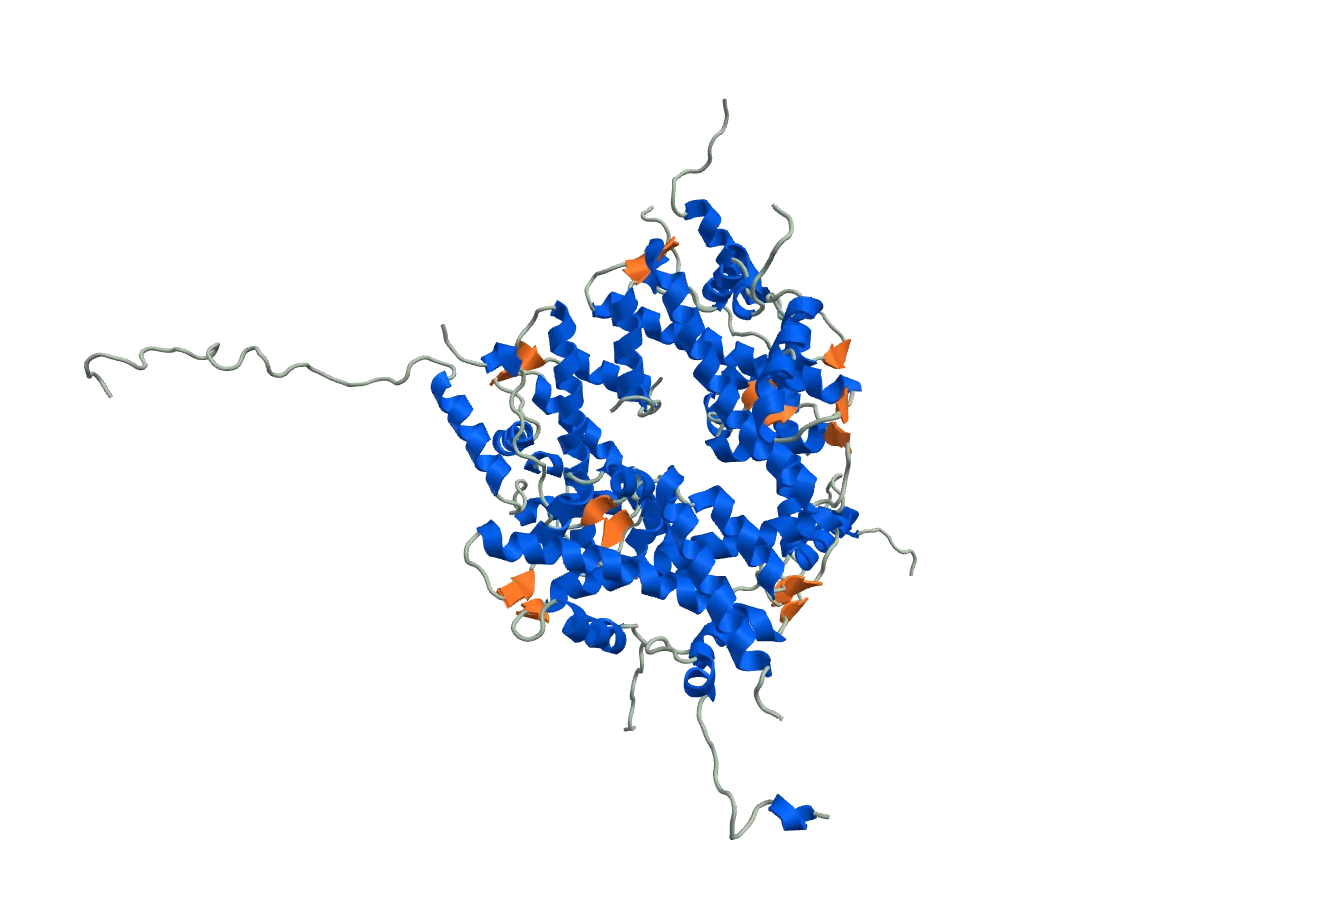
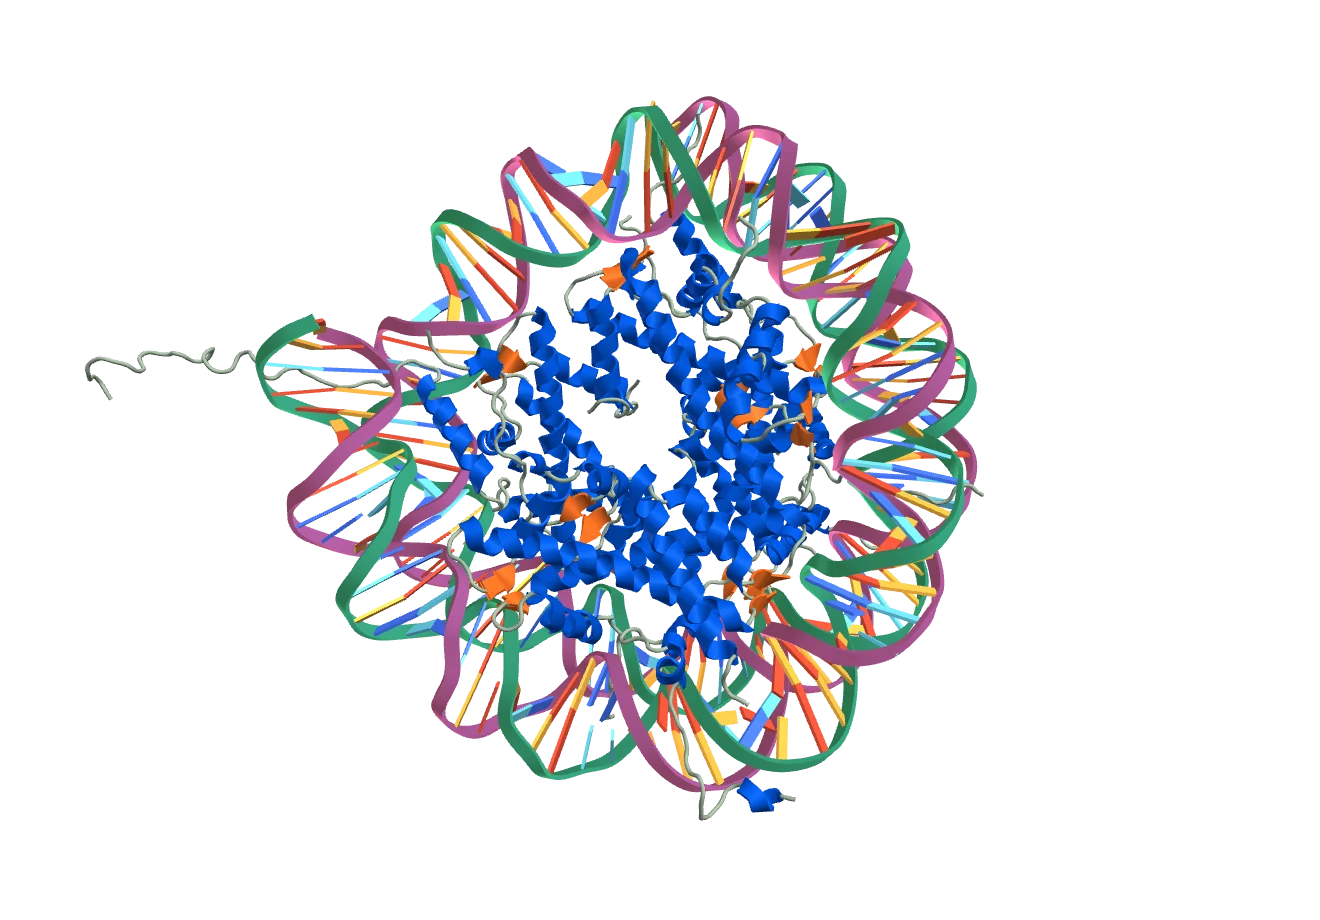
use thumbnails for protein and dna cards on homepage

Changed region(s): [[0.0621, 0.0913, 0.7455, 0.913]]

diff --git a/contribute.html b/contribute.html
@@ -263,7 +263,7 @@
 <section class="shelf">
   <div class="wrap galhead">
     <h2>Our <em>component</em> library</h2>
-    <p><span id="ncomp"></span> exist already, each one a line of code to use. The next one is <a href="https://github.com/rhymeandreason/ScienceSandbox/blob/main/demos/docs/AddingAComponent.md" target="_blank" rel="noopener">AddingAComponent.md</a>.</p>
+    <p><span id="ncomp"></span> exist already, spanning molecules to cells to graphs.</p>
   </div>
   <!-- One row, scrolled sideways: eleven live scenes down a page is a wall,
        and across one they read as a shelf you flick through. -->
@@ -272,7 +272,7 @@
   <div class="gallery" id="gallery">
     <article><div class="stage" style="--stage-bg:#EAF3FF"><img src="demos/media/components/watersim.webp" alt="WaterSim, drawn by the component itself" loading="lazy" width="536" height="358"></div><div class="text"><h4>WaterSim</h4><p>Liquid water, and what follows from hydrogen bonds.</p><ul class="feats"><li>temperature</li><li>phase change</li><li>ice floating</li><li>salt dissolving</li></ul><div class="rung">molecules · bulk</div></div></article>
     <article><div class="stage" style="--stage-bg:#FFF7E3"><img src="demos/media/components/membrane.webp" alt="Membrane, drawn by the component itself" loading="lazy" width="536" height="358"></div><div class="text"><h4>Membrane</h4><p>A bilayer, its proteins, and what crosses.</p><ul class="feats"><li>diffusion</li><li>osmosis</li><li>selectivity</li><li>pumps and ATP</li><li>resting potential</li><li>chemiosmosis</li></ul><div class="rung">membrane · bulk</div></div></article>
-    <article><div class="stage" style="--stage-bg:#FFF0EC"><img src="demos/media/components/proteinbox.webp" alt="Proteinbox, drawn by the component itself" loading="lazy" width="536" height="358"></div><div class="text"><h4>Proteinbox</h4><p>Any protein in the library, in its own ångströms.</p><ul class="feats"><li>primary to quaternary</li><li>ribbon · surface · fold</li><li>two side by side</li></ul><div class="rung">macromolecule · single</div></div></article>
+    <article><div class="stage" style="--stage-bg:#FFF0EC"><img src="demos/media/components/proteinbox.webp" alt="Proteinbox, drawn by the component itself" loading="lazy" width="536" height="358"></div><div class="text"><h4>Proteinbox</h4><p>A protein in the library converted from PDB. Renders ribbon and surfaces.</p><ul class="feats"><li>primary to quaternary</li><li>ribbon · surface · fold</li><li>two side by side</li></ul><div class="rung">macromolecule · single</div></div></article>
     <article><div class="stage" style="--stage-bg:#F5EEFF"><img src="demos/media/components/hbcrowd.webp" alt="HbCrowd, drawn by the component itself" loading="lazy" width="536" height="358"></div><div class="text"><h4>HbCrowd</h4><p>A crowd of haemoglobins, and the moment HbS starts a fibre.</p><ul class="feats"><li>HbA against HbS</li><li>a fibre starting</li></ul><div class="rung">macromolecule · bulk</div></div></article>
     <article><div class="stage" style="--stage-bg:#FFEFEF"><img src="demos/media/components/bloodcell.webp" alt="BloodCell, drawn by the component itself" loading="lazy" width="536" height="358"></div><div class="text"><h4>BloodCell</h4><p>One red blood cell, cut open.</p><ul class="feats"><li>tonicity</li><li>lysis and crenation</li><li>sickling</li><li>cut open</li></ul><div class="rung">cell · single</div></div></article>
     <article><div class="stage" style="--stage-bg:#EEF2FA"><img src="demos/media/components/animalcell.webp" alt="AnimalCell, drawn by the component itself" loading="lazy" width="536" height="358"></div><div class="text"><h4>AnimalCell</h4><p>An animal cell cut open, with its organelles.</p><ul class="feats"><li>naming the parts</li><li>animal against plant</li><li>vesicle traffic</li></ul><div class="rung">cell · single</div></div></article>

diff --git a/index.html b/index.html
@@ -129,7 +129,7 @@
   }
   .field.set .card a:hover { transform: translateY(-4px); box-shadow: 0 2px 4px rgba(20,33,61,.06), 0 24px 50px -14px rgba(20,33,61,.35); }
   .card .stage { position: relative; aspect-ratio: 3 / 2; background: var(--stage-bg, #fff); }
-  .card .stage > canvas, .card .stage > iframe { display: block; width: 100%; height: 100%; border: 0; }
+  .card .stage > canvas, .card .stage > iframe, .card .stage > img { display: block; width: 100%; height: 100%; object-fit: contain; border: 0; }
   .card .stage .num {
     position: absolute; left: 14px; top: 12px; font: 600 11px/1 var(--sans); letter-spacing: .2em;
     color: var(--ink); background: rgba(255,255,255,.7); padding: 6px 8px; border-radius: 999px;
@@ -284,7 +284,7 @@
       </li>
       <li class="card" style="--sx:13vw; --sy:-2vh; --rot:-4deg; --sc:1.02; --dd:10s; --ds:-5s; --dot:var(--coral); --in:.24s">
         <div class="drift"><a href="/protein">
-          <div class="stage" data-mount="protein" style="--stage-bg:#FFF0EC"><span class="num"><i></i>03</span></div>
+          <div class="stage" style="--stage-bg:#FFF0EC"><img src="demos/proteins/stills/hemoglobin.webp" alt="haemoglobin, four folded chains" loading="lazy"><span class="num"><i></i>03</span></div>
           <div class="text"><h3>Levels of Protein Structure</h3><p>Haemoglobin, from a chain of amino acids to four folded chains.</p></div>
         </a></div>
       </li>
@@ -302,7 +302,7 @@
       </li>
       <li class="card" style="--sx:15vw; --sy:8vh; --rot:7deg; --sc:.96; --dd:8.5s; --ds:-4s; --dot:var(--blue); --in:.06s">
         <div class="drift"><a href="/dna">
-          <div class="stage" data-mount="dna" style="--stage-bg:#EEF2FA"><span class="num"><i></i>06</span></div>
+          <div class="stage" style="--stage-bg:#EEF2FA"><img src="demos/proteins/stills/dna.webp" alt="a DNA duplex, its rungs joined" loading="lazy"><span class="num"><i></i>06</span></div>
           <div class="text"><h3>Structure of DNA</h3><p>A helix from real coordinates, part by part.</p></div>
         </a></div>
       </li>
@@ -411,9 +411,6 @@
 <script src="demos/lib/atomkit.js"></script>
 <script src="demos/kit/card-stage.js"></script>
 <script src="demos/kit/molbox.js"></script>
-<script src="demos/kit/ribbon.js"></script>
-<script src="demos/kit/nucleic.js"></script>
-<script src="demos/kit/proteinbox.js"></script>
 <script src="demos/proteins/proteins.js"></script>
 <script src="demos/membrane/parts.js"></script>
 <script src="demos/membrane/pump.js"></script>
@@ -542,13 +539,10 @@
   Molbox.create({ mount: mounts.bonds, spec: MolLib.MOLECULES.methane, spin: 0.35, pad: 1.32, stage: Object.assign({ orbit: true }, noZoom) });
   Molbox.create({ mount: mounts.glycolysis, spec: MolLib.MOLECULES.glucose, spin: 0.28, pad: 1.28, stage: Object.assign({ orbit: true }, noZoom) });
 
-  const hb = ProteinLib.byKey("hemoglobin");
-  Proteinbox.create({ mount: mounts.protein, base: "demos/", protein: "hemoglobin", orbit: true, pad: 1.1, sub: 8,
-    stage: { ortho: false, turn: "trackball", zoom: false }, colors: ProteinLib.colorsOf(hb, ProteinLib.defaultOf(hb)) });
-  // DNA: Proteinbox draws a nucleic trace through kit/nucleic.js; the ladder
-  // with joined rungs is the same picture the lesson opens on
-  Proteinbox.create({ mount: mounts.dna, trace: "demos/proteins/dna/data/dna-1BNA.json", orbit: true, pad: 1.05, sub: 8,
-    stage: { ortho: false, turn: "trackball", zoom: false } });
+  /* Protein and DNA are STILLS, not boxes: neither card animates, both are
+     the slowest scenes here (a ribbon, and a ladder whose rungs are joined),
+     and the frame a reader sees is the one proteins/tools/stills.html baked
+     from the same registry entry the lesson opens on. Four live boxes left. */
 
   Membrane.mount(mounts.membrane, {
     proteins: { K: { x: -34 }, pump: { x: 34 } },

diff --git a/demos/proteins/tools/stills.html b/demos/proteins/tools/stills.html
@@ -57,11 +57,18 @@
 <script>
 'use strict';
 
-/* The gallery's own reading of the two registries, so a still cannot be baked
-   for an entry the gallery does not show — or, worse, in a different frame. */
-const NA_KEYS = new Set(NucleicAcids.withProtein().map(s => s.key));
+/* Every entry in the two registries, drawn in the frame its own registry
+   states — which is how a still cannot show a molecule differently from the
+   page that later replaces it with a live box.
+
+   EVERY NUCLEIC STRUCTURE, NOT ONLY THE COMPLEXES. proteins/index.html shows
+   `withProtein()` because a bare duplex on a gallery of proteins is a category
+   error, but other pages draw the bare ones: the homepage's DNA card and the
+   DNA lesson both open on dna-1BNA.json. A still they cannot have is the empty
+   rectangle this bench exists to remove. */
+const NA_KEYS = new Set(NucleicAcids.STRUCTURES.map(s => s.key));
 const isNA = p => NA_KEYS.has(p.key);
-const ENTRIES = [...ProteinLib.PROTEINS, ...NucleicAcids.withProtein()];
+const ENTRIES = [...ProteinLib.PROTEINS, ...NucleicAcids.STRUCTURES];
 const defaultOf = p => isNA(p) ? NucleicAcids.defaultOf(p) : ProteinLib.defaultOf(p);
 const dataOf = (p, file) => `../../${p.dir}/data/${file}`;
 
